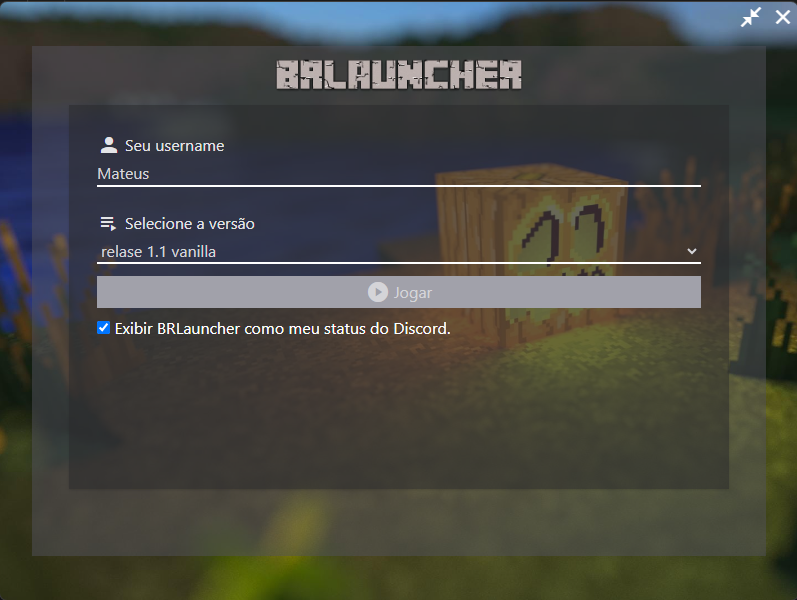
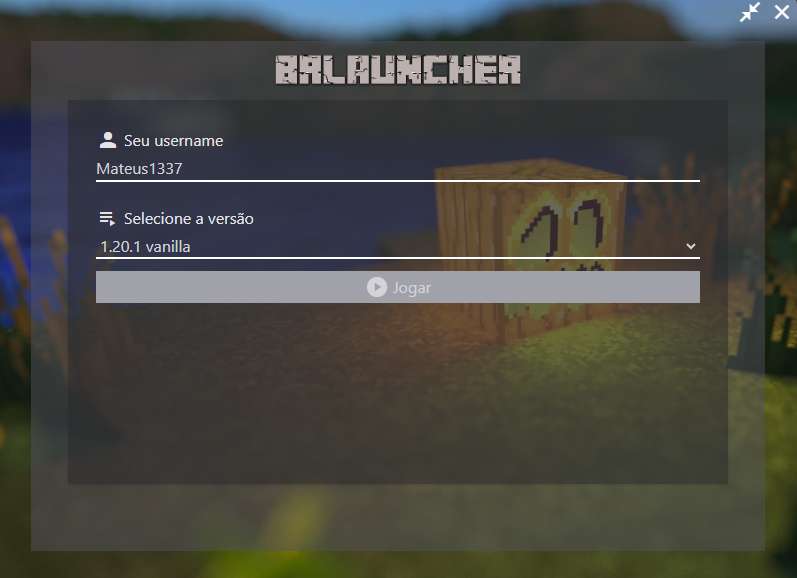
readme refeito; cache de usuario; iniciar automaticamente com .bat

diff --git a/dist/views/index.html b/dist/views/index.html
@@ -543,9 +543,7 @@
                                 1.15.1 forge
                             </option>
                         
-                            <option class="text-black" 
-                                selected 
-                             value="1.15 forge">
+                            <option class="text-black"  value="1.15 forge">
                                 1.15 forge
                             </option>
                         

diff --git a/dist/viewsCompiler.js b/dist/viewsCompiler.js
@@ -42,6 +42,7 @@ const path_1 = require("path");
 const node_notifier_1 = __importDefault(require("node-notifier"));
 const axios_1 = __importDefault(require("axios"));
 (() => __awaiter(void 0, void 0, void 0, function* () {
+    console.clear();
     node_notifier_1.default.notify({
         appID: "BRLauncher",
         title: 'Minecraf Launcher',

diff --git a/dist/services/css/style.css b/dist/services/css/style.css
@@ -558,10 +558,6 @@ video {
   margin-right: 0.25rem;
 }
 
-.mt-2 {
-  margin-top: 0.5rem;
-}
-
 .mt-3 {
   margin-top: 0.75rem;
 }
@@ -620,10 +616,6 @@ video {
 
 .justify-center {
   justify-content: center;
-}
-
-.overflow-hidden {
-  overflow: hidden;
 }
 
 .overflow-clip {

diff --git a/src/services/css/style.css b/src/services/css/style.css
@@ -558,10 +558,6 @@ video {
   margin-right: 0.25rem;
 }
 
-.mt-2 {
-  margin-top: 0.5rem;
-}
-
 .mt-3 {
   margin-top: 0.75rem;
 }
@@ -620,10 +616,6 @@ video {
 
 .justify-center {
   justify-content: center;
-}
-
-.overflow-hidden {
-  overflow: hidden;
 }
 
 .overflow-clip {

diff --git a/src/viewsCompiler.ts b/src/viewsCompiler.ts
@@ -7,7 +7,7 @@ import notifier from "node-notifier"
 import axios from "axios"
 
 (async () => {
-
+    console.clear()
     notifier.notify({
         appID: "BRLauncher",
         title: 'Minecraf Launcher',

diff --git a/README.md b/README.md
@@ -4,52 +4,50 @@
 
 # BRLauncher
 
-Um launcher de Minecraft 100% Brasileiro, seguro e de código aberto!
-
-## Como instalar
-
 Para instalar esse launcher no seu computador siga as seguintes etapas:
 
-🚨 LEMBRE-SE DE INSTALAR O JAVA E O NODEJS
+## Instalação 
 
-### Clonar o projeto
+Siga os passos abaixo para instalar o BRLauncher no seu computador:
 
-1. Baixar o código
+### Requisitos do Sistema
 
-Primeiramente você precisa baixar o código fonte para seu computador, você pode fazer isso assim:
+Antes de começar, verifique se o seu sistema atende aos seguintes requisitos:
 
-```bash
-git clone https://github.com/VOTRON157/BRLauncher.git
-cd BRLauncher
-```
+- Sistema Operacional: Windows
+- NodeJS: É necessário ter o NodeJS instalado. Recomendamos a versão mais recente.
+    - Instalar o NodeJS: https://nodejs.org/pt-br
 
-Se você não tiver o git instalado, você pode baixar através do proprio github:
-
-<img src="./images/tutorial.png">
-
-E abra a pasta com os arquivos no terminal, igual a gente fez no primeiro exemplo (usando o git).
-
-2. Instalar os pacotes
-
-Para conseguimos rodar o código precisamos instalar as blibiotecas, primeiro entre na pasta onde está o código fonte através de um terminal.
-
-~~a pasta deve ter isso, ou algo parecido com isso dentro~~
-
-<img src="./images/dir.png">
-
-~~como abrir uma pasta no terminal usando windows:~~
-
-<img src="./images/abrir.png">
-
-Depois de ter feito isso, digite os seguintes comandos (na pespectiva ordem) no terminal:
+1. **Baixar o código:** No repositório do BRLauncher, clique no botão "Download ZIP" para baixar o código fonte compactado. Alternativamente, você pode clonar o repositório usando o comando Git:
+    - [Onde fica o botão "Download ZIP"?](https://github.com/VOTRON157/BRLauncher/blob/main/images/tutorial.png) 
 
 ```bash
-npm install
-npm run build:css
-# Esse primeiro e segundo comando só é necessario na primeira vez que você for abrir.
-npm start
+git clone https://github.com/VOTRON157/BRLauncher.git # Nesse caso não precisa descompactar, já vai vim a pasta.
 ```
 
-Uma janela ira se abrir e você já podera usar o launcher!
+2. **Extrair os arquivos:** Após o download ser concluído, extraia os arquivos do ZIP em uma pasta de sua escolha  (la é onde ficara a pasta `.minecraft`).
 
-<img src="./images/launcher.png" width="500">
+3. **Executar o arquivo `start.bat`:** Navegue até a pasta onde você extraiu os arquivos do launcher. Procure pelo arquivo start.bat e dê um duplo clique nele para executar o BRLauncher.
+
+## Suporte
+
+Caso você encontre problemas na execução, siga estas etapas:
+
+1. **Verificar a versão do NodeJS:** Alguns error podem ocorrer devido a versões obsoletas do Node, para verificar a versão instalada no seu computador você pode executar o seguinte comando:
+
+```bash
+node -v
+```
+
+# Lista do que fazer
+
+- [ ] Deixar a interface amigavel
+- [ ] Opção de customizar a skin
+- [ ] Definir o limite de mémoria ram da JVM
+- [x] Opção de modificar o Minecraft
+    - [x] Forge
+    - [x] Fabric
+    - [x] Vanilla 
+- [x] Guarda os dados do usuario quando ele fechar o Launcher
+- [ ] Deixar o código organizado
+- [ ] Criar a opção de instalar Mods a partir do próprio launcher.
